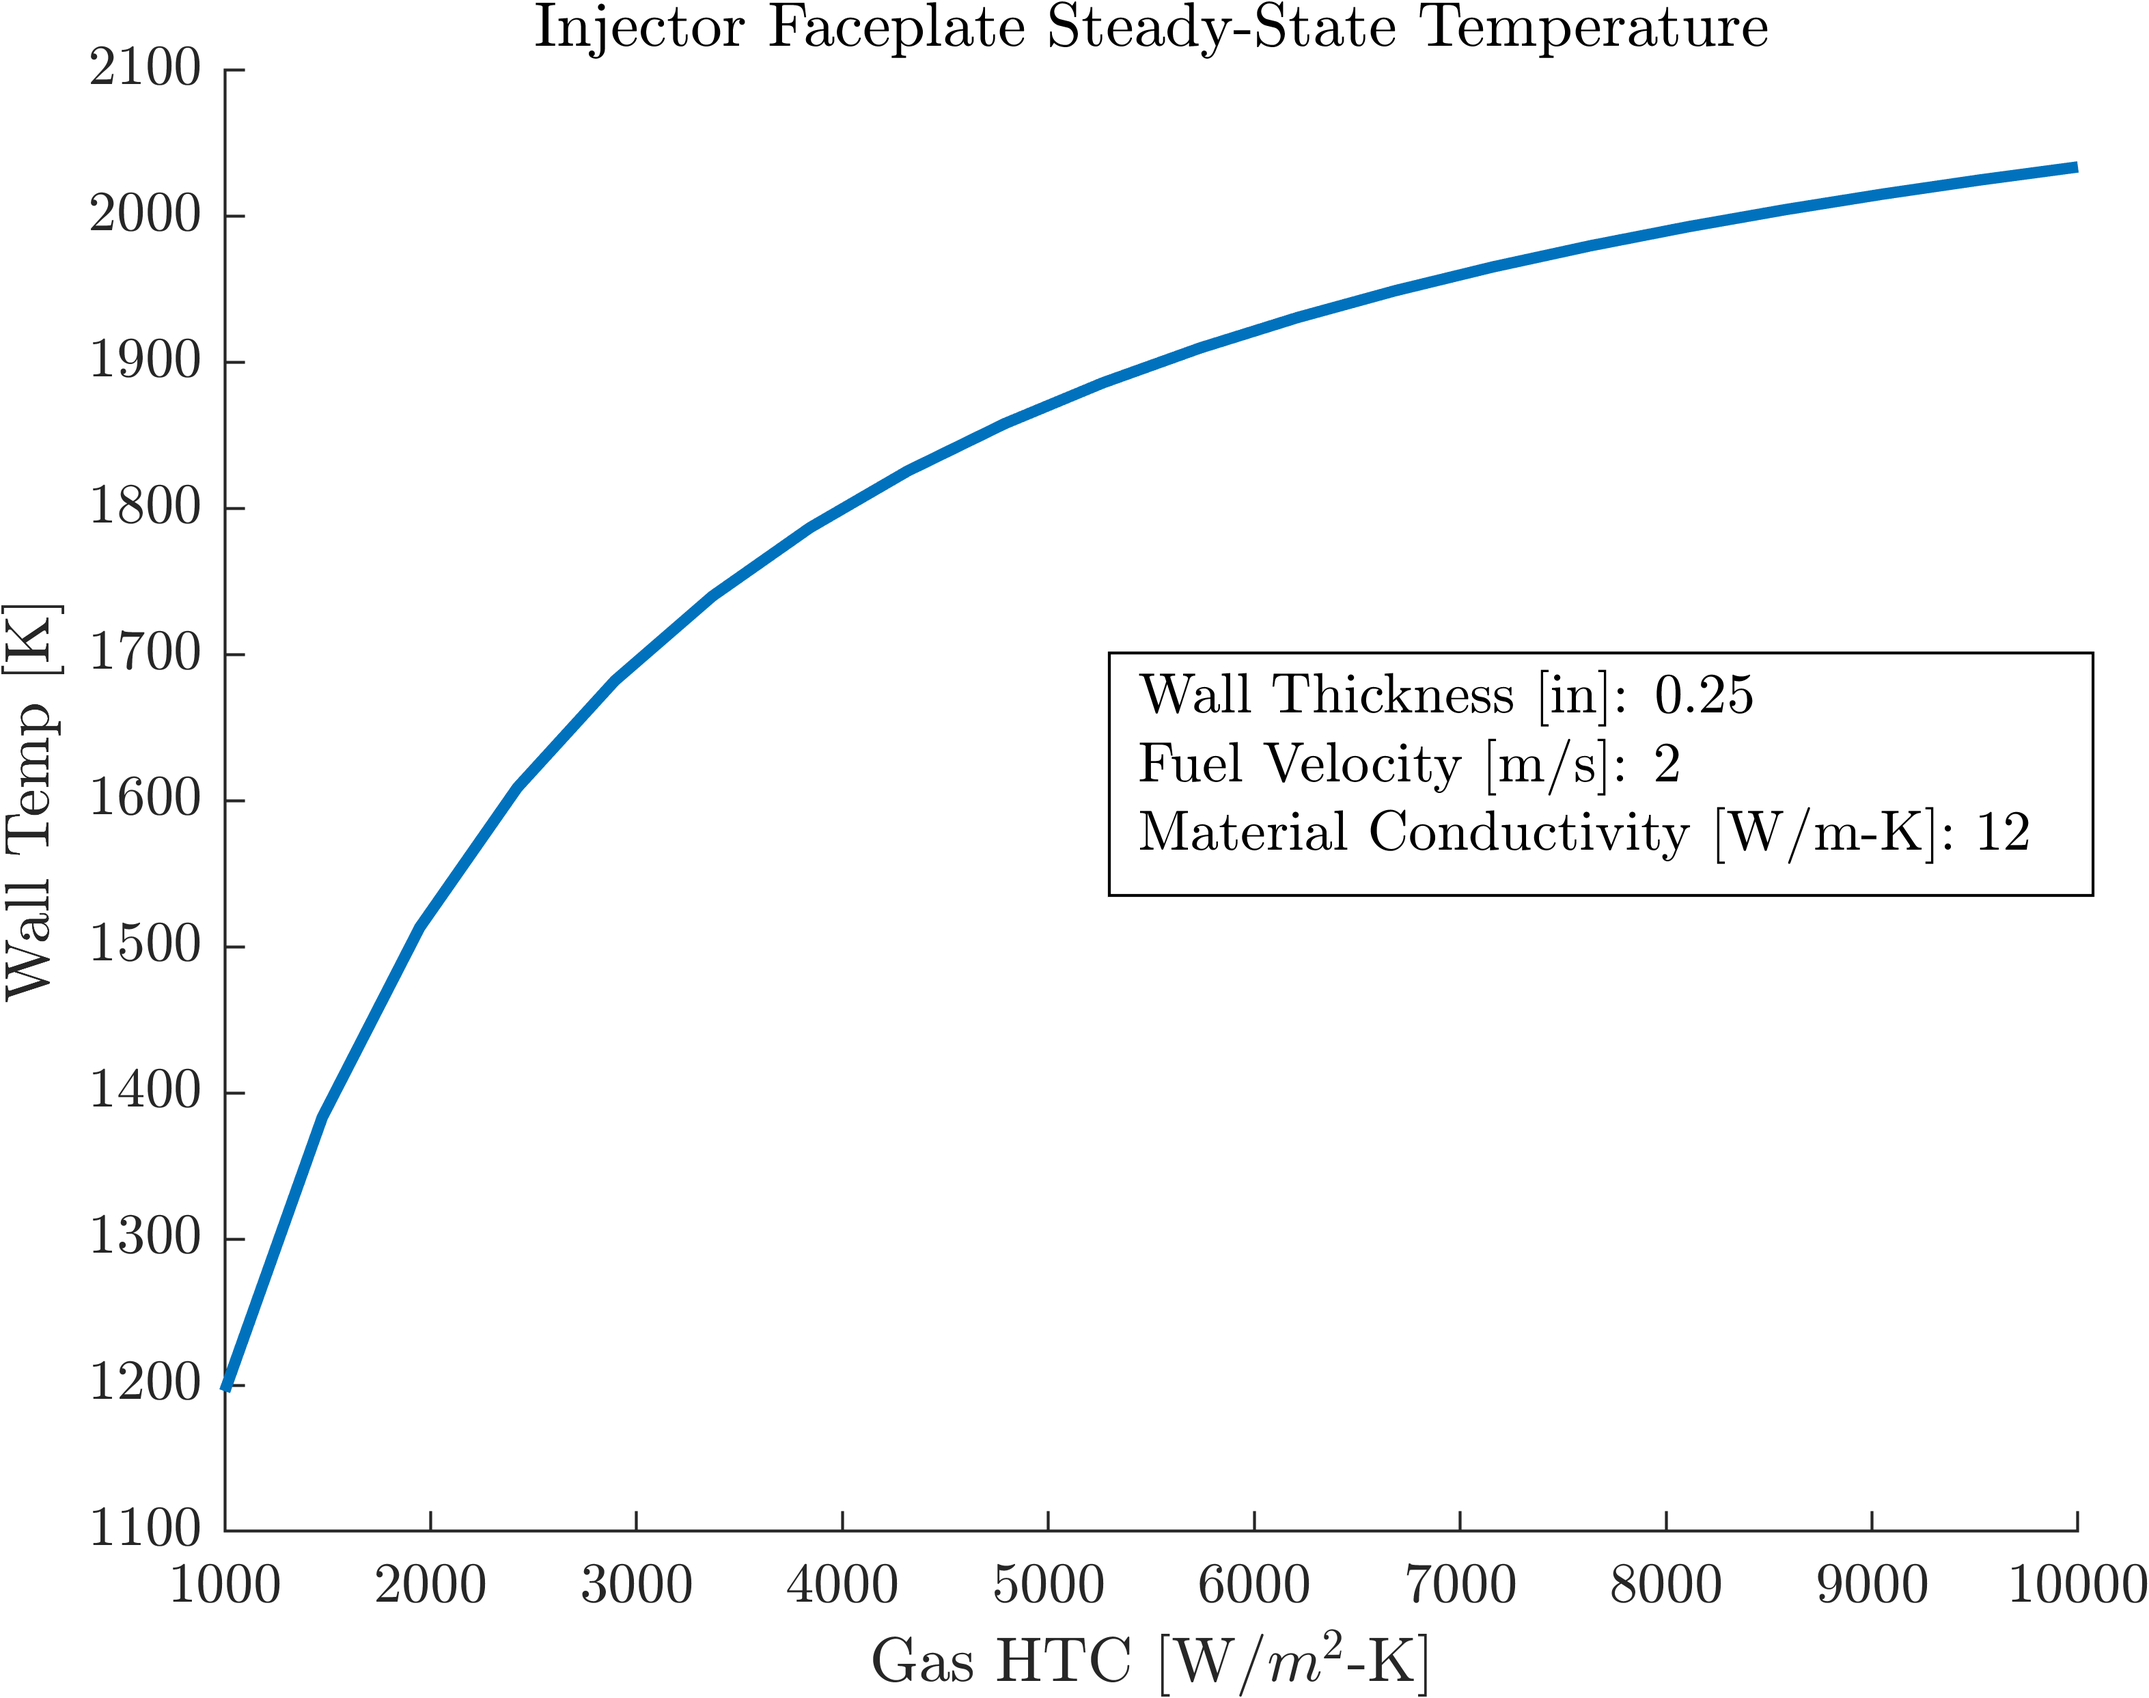
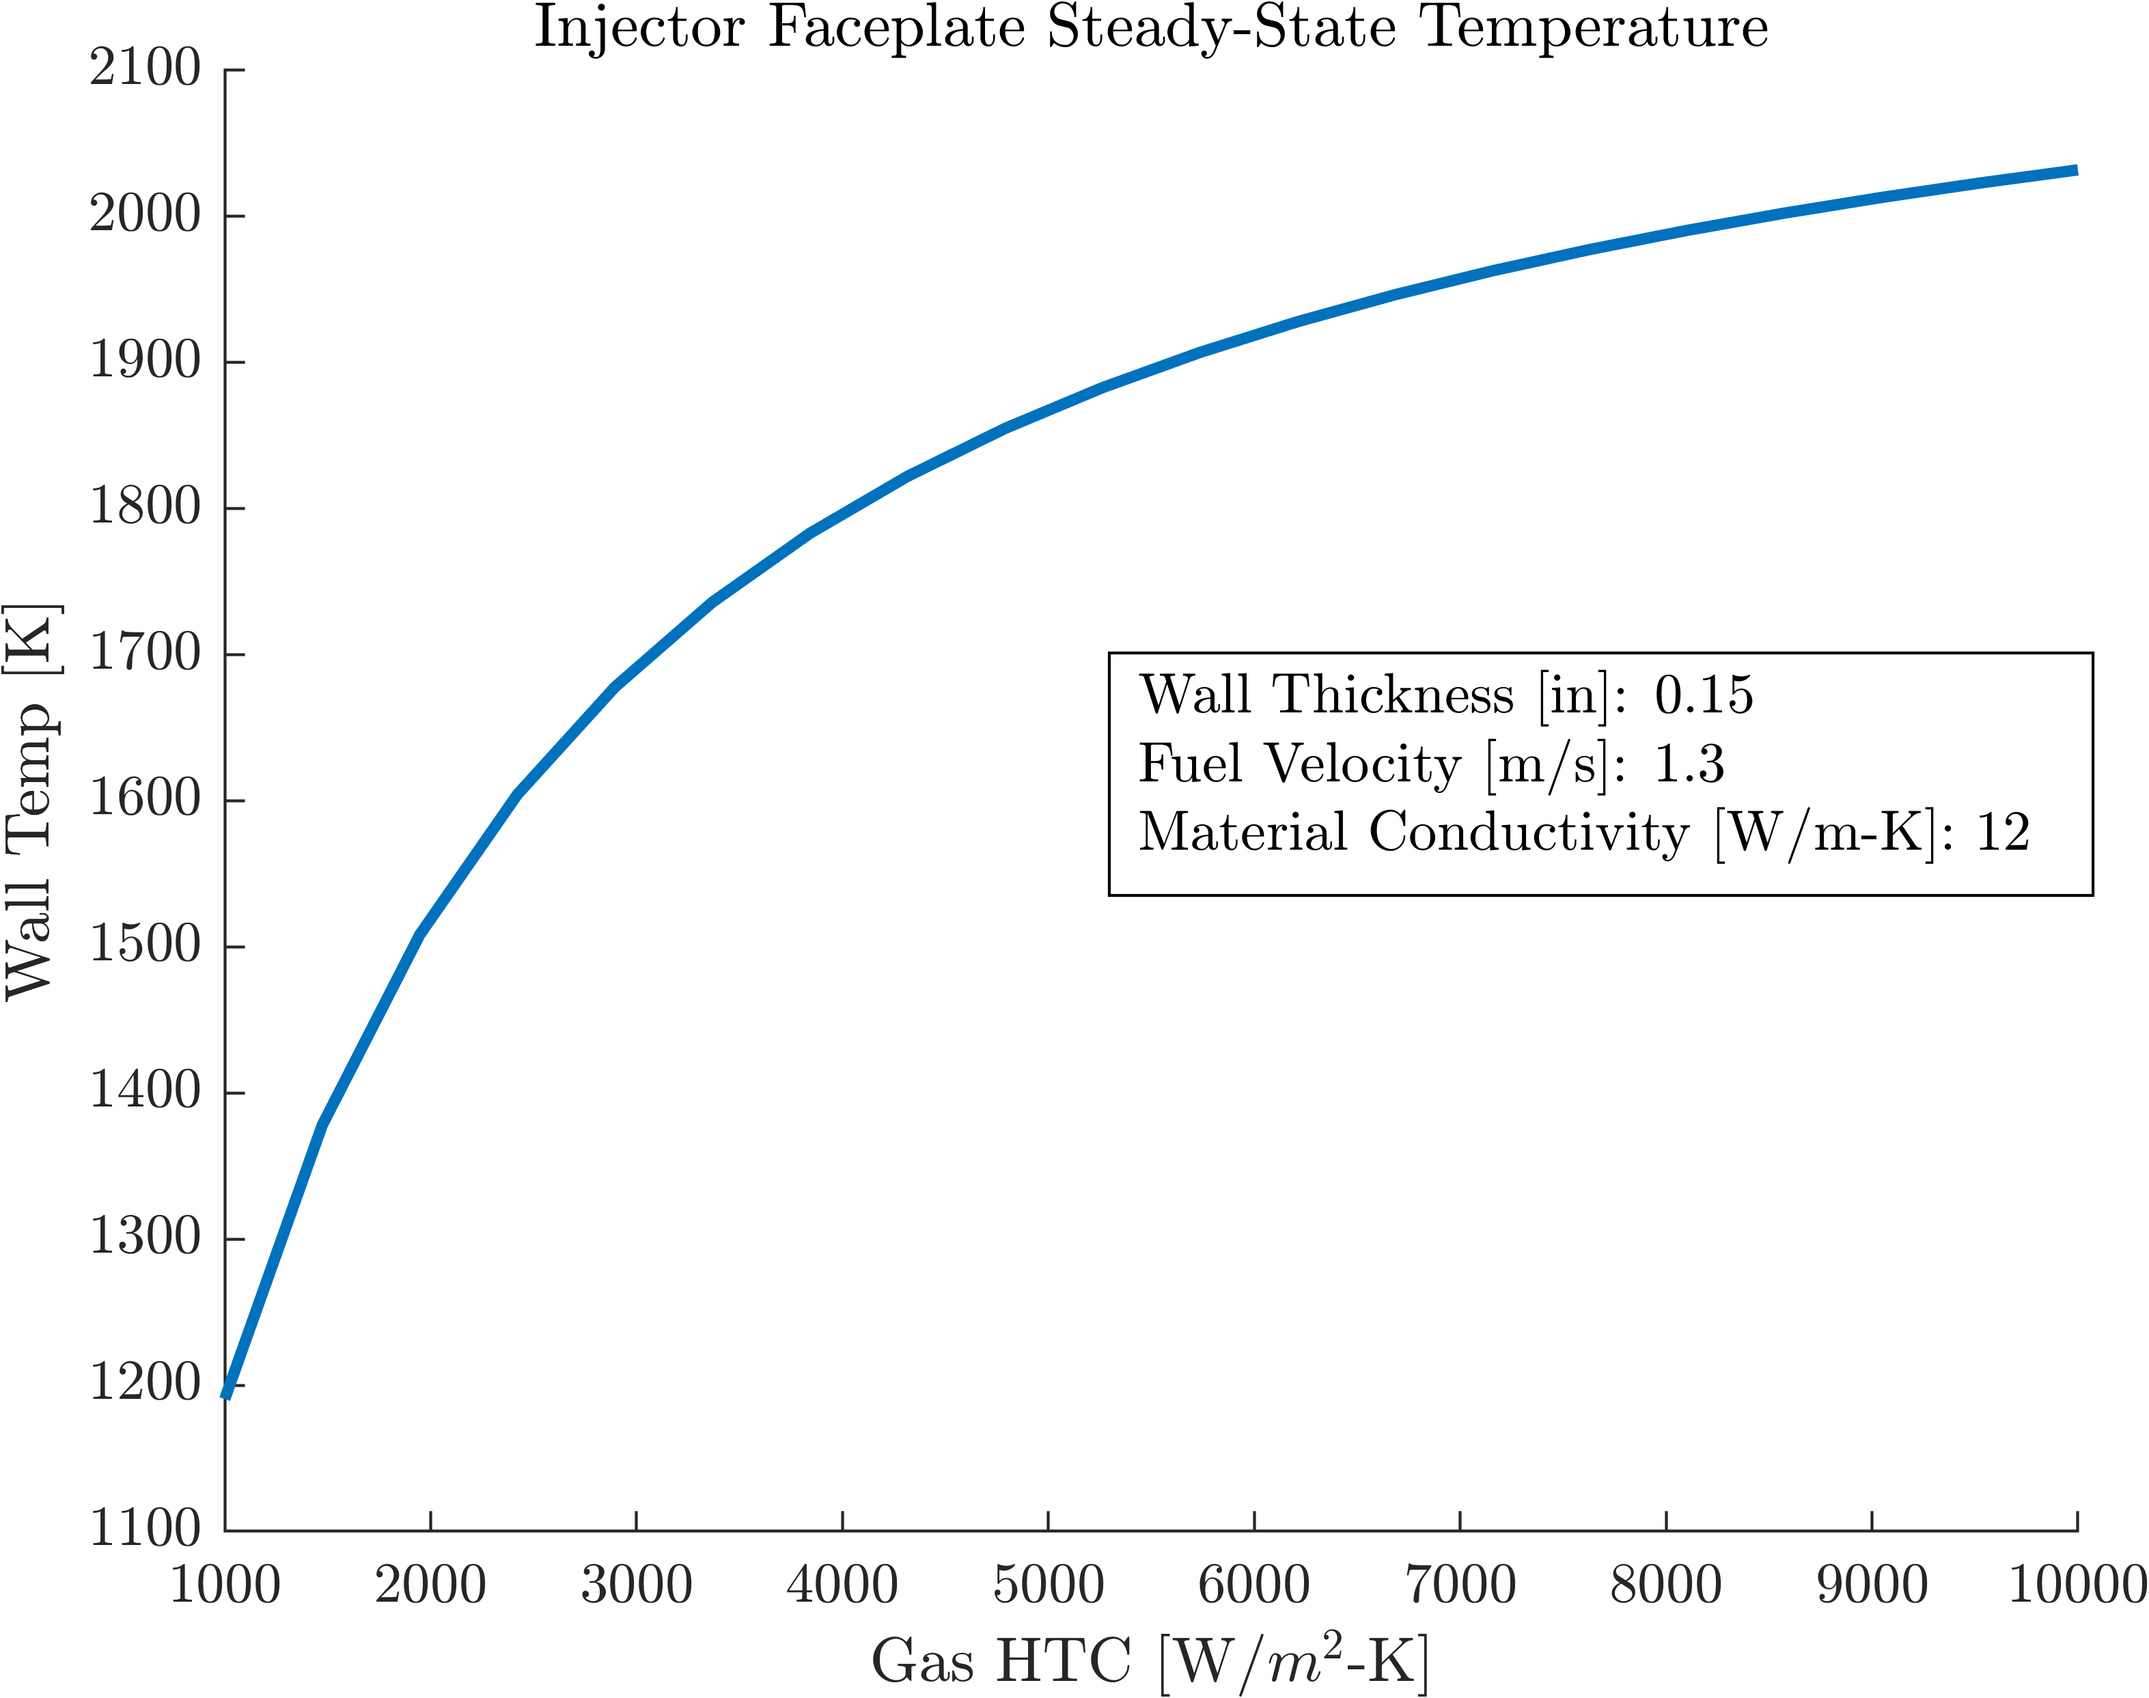
updated matlab scripts

diff --git a/01_Analysis/manifold_flow_calcs.m b/01_Analysis/manifold_flow_calcs.m
@@ -4,7 +4,7 @@ close all
 
 % Inlet environment definition
 Pc = 250 * 6894.76; % Chamber pressure, [Pa]
-m_dot = 0.560640169; % Massflow fuel, [kg/s]
+m_dot = 0.560640169 / 2; % Massflow fuel, [kg/s]
 T_l = 293.16; % K
 
 dP_pct_fu = 0.2; % Fuel stiffness
@@ -12,15 +12,18 @@ P_l = Pc * (1 + dP_pct_fu); % Fuel manifold pressure
 rho_l = py.CoolProp.CoolProp.PropsSI('D','T', T_l,'P', P_l, 'water');
 
 % Manifold Geometry Definition
-A_max = 0.00064516; % [m^2]
-A_min = A_max / 4;  
-manifold_half_length = 0.2; % [m]
+% A_max = 0.30653981 / 1550; % Ox [m^2]
+% A_min = 0.21618775 / 1550;  % Ox [m^2]
+A_max = 0.33381582 / 1550;  % Fu [m^2]
+A_min = 0.23641132 / 1550; % Fu [m^2]
+
+manifold_half_length = 1.65 * 0.0254 * pi; % [m]
 e = 200e-6; % [micrometers]
 
 % Manifold interpolation
 steps = 100;
 length = linspace(0, steps, steps);
-manifold_mdot = m_dot - 0.8 * (m_dot - m_dot/steps) ./ steps .* (length); % mdot left after entrance through windows
+manifold_mdot = m_dot - 0.9 * (m_dot - m_dot/steps) ./ steps .* (length); % mdot left after entrance through windows
 cubic_area = (length + steps/2) .* (length - steps).^2 ./ (steps^2 * steps/2) * (A_max - A_min) + A_min;
 
 % Velocity calculations

diff --git a/01_Analysis/injector_face_thermals.m b/01_Analysis/injector_face_thermals.m
@@ -17,7 +17,7 @@ OF = 1.2;
 manifold_mdot = 0.560640169; % Massflow fuel, [kg/s] 
 
 % Injector definition  
-t_w = 0.25 * 0.0254;  % [m]
+t_w = 0.15 * 0.0254;  % [m]
 e = 200e-6; % [micrometers]
 dP_pct_fu = 0.2; % Fuel stiffness
 P_l = Pc * (1 + dP_pct_fu); % Fuel manifold pressure
@@ -28,7 +28,7 @@ k_w = 12; % Thermal Conductivity of Wall [W/m-K]
 % Reference diameters
 rho_fu = py.CoolProp.CoolProp.PropsSI('D','T', T_l,'P', P_l, fuel); % Fu density in manifold, [kg/m^3]
 P_dyn = P_l * 0.01;
-velo = 2; %sqrt(2 * P_dyn / rho_fu); % [m/s]
+velo = 1.3; %sqrt(2 * P_dyn / rho_fu); % [m/s]
 hydraulic_D = sqrt(manifold_mdot / (velo * rho_fu) / pi) * 2;
 
 % Iteration initialization
